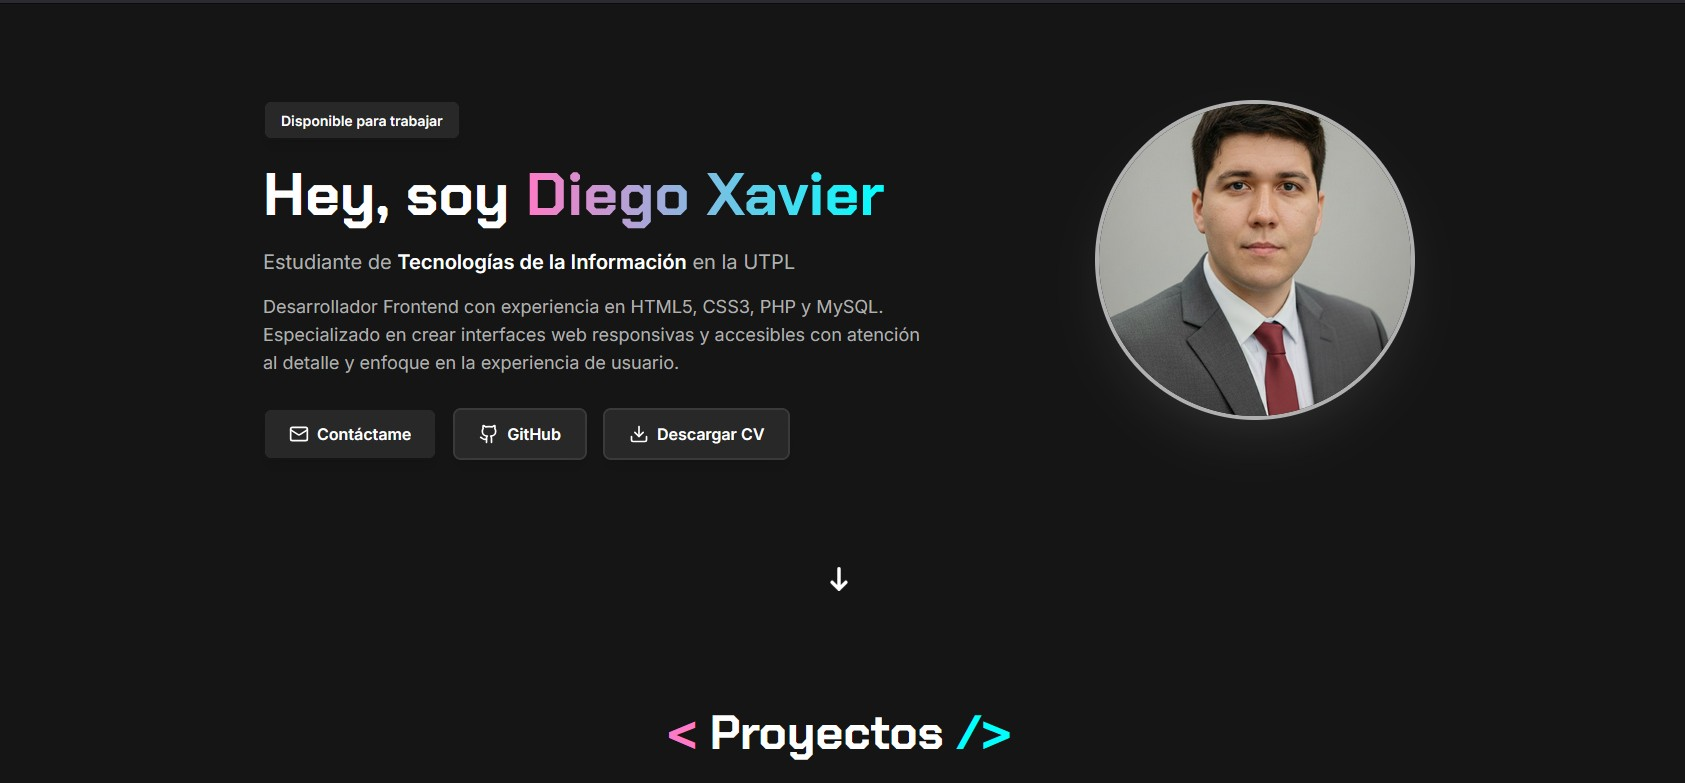
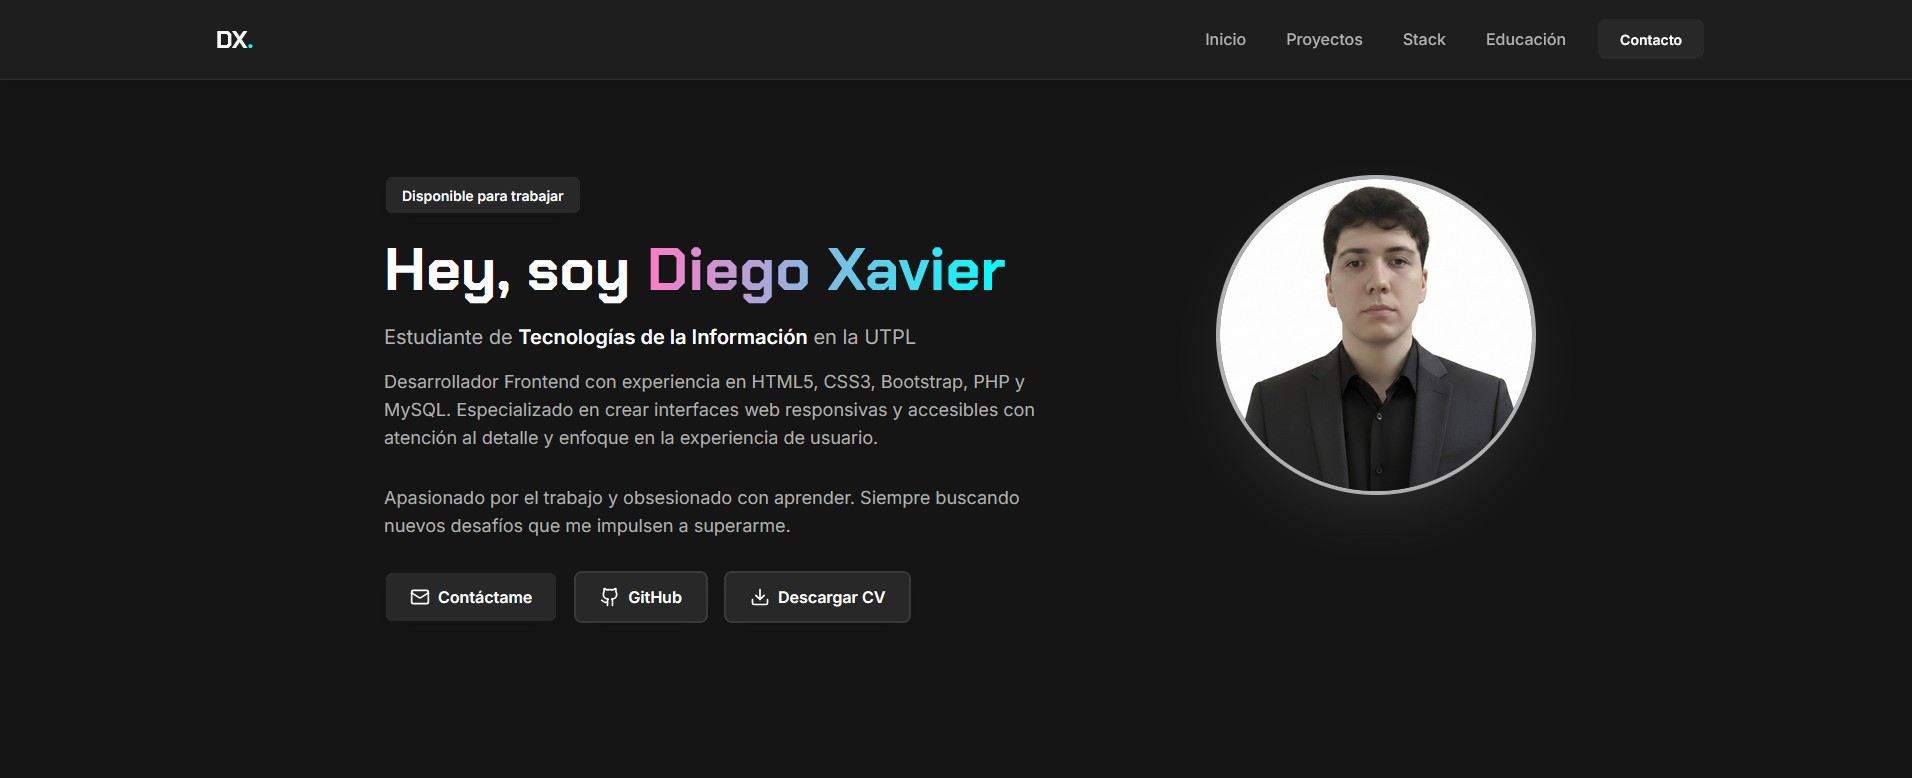
Ajustes finales de README, imágenes y plantilla

diff --git a/otro/index.html b/otro/index.html
@@ -167,13 +167,13 @@
             <div class="flex items-center gap-3 lg:hidden w-full">
                 <div class="w-16 h-16 sm:w-20 sm:h-20 rounded-full overflow-hidden border-2 border-[#B0B0B0] shadow-xl shadow-[#FFFFFF]/10 transition-transform duration-300 hover:scale-105 flex-shrink-0">
                     <img 
-                        src="/img/diego_xavier.jpg" 
+                        src="../assets/img/Foto_Diego.png" 
                         alt="Diego Xavier Barros Conde"
                         class="w-full h-full object-cover"
-                    />
+                    />wb
                 </div>
                 <a 
-                    href="https://www.linkedin.com/in/tu-perfil-linkedin" 
+                    href="https://www.linkedin.com/in/Diego-Barros-b18135362/" 
                     target="_blank" 
                     rel="noopener noreferrer"
                     class="group relative inline-flex items-center justify-center gap-2 px-4 py-2 rounded-lg font-semibold text-xs sm:text-sm text-white bg-[#282828] border-2 border-transparent overflow-hidden transition-all duration-300 hover:scale-105 shadow-lg hover:shadow-xl whitespace-nowrap"
@@ -191,7 +191,7 @@
             <div class="hidden lg:block flex-shrink-0">
                 <div class="w-80 h-80 rounded-full overflow-hidden border-4 border-[#B0B0B0] shadow-2xl shadow-[#FFFFFF]/10 transition-transform duration-300 hover:scale-105 object-center">
                     <img 
-                        src="/img/diego_xavier.jpg" 
+                        src="../assets/img/Foto_Diego.png" 
                         alt="Diego Xavier Barros Conde"
                         class="w-full h-full object-cover "
                     />
@@ -202,7 +202,7 @@
             <div class="flex-1 w-full lg:text-left">
                 <!-- Badge (Desktop only) -->
                 <a 
-                    href="https://www.linkedin.com/in/tu-perfil-linkedin" 
+                    href="https://www.linkedin.com/in/Diego-Barros-b18135362/" 
                     target="_blank" 
                     rel="noopener noreferrer"
                     class="hidden lg:inline-flex group relative items-center justify-center gap-2 px-4 py-2 rounded-lg font-semibold text-sm text-white bg-[#282828] border-2 border-transparent overflow-hidden transition-all duration-300 hover:scale-105 shadow-lg hover:shadow-xl mb-6"
@@ -234,10 +234,7 @@
                     Siempre buscando nuevos desafíos que me impulsen a superarme.
                     
                 </p>
-                <p class="text-base sm:text-lg text-[#B0B0B0] mb-6 sm:mb-8 max-w-2xl lg:mx-0">
-                   En mis ratos libres me gusta jugar videojuegos principalmente CS:GO. 
-                   Esta página está inspirada en el estilo del arma Printstream. 
-                </p>
+                
 
                 <!-- Action Buttons -->
                 <div class="flex flex-wrap gap-3 sm:gap-4 lg:justify-start">
@@ -276,7 +273,7 @@
                     </a>
 
                     <a
-                        href="CV - Diego Xavier Barros Conde_Machala.pdf"
+                        href="../assets/cv/CV-Diego_Xavier_Barros_Conde_Machala.pdf"
                         download="CV_Diego_Xavier_Barros_Conde.pdf"
                         class="group relative inline-flex items-center justify-center gap-2 px-5 sm:px-6 py-2.5 sm:py-3 rounded-lg font-semibold text-sm sm:text-base text-white bg-[#282828] border-2 border-[#3A3A3A] overflow-hidden transition-all duration-300 hover:scale-105 hover:border-transparent shadow-lg hover:shadow-xl"
                         style="background-clip: padding-box;"
@@ -297,12 +294,7 @@
         </div>
     </div>
 
-    <!-- Scroll Indicator -->
-    <div class="flex justify-center py-4">
-        <svg class="w-5 h-5 sm:w-6 sm:h-6 animate-bounce text-white" aria-hidden="true" xmlns="http://www.w3.org/2000/svg" fill="none" viewBox="0 0 10 14">
-            <path stroke="currentColor" stroke-linecap="round" stroke-linejoin="round" stroke-width="2" d="M5 1v12m0 0 4-4m-4 4L1 9"/>
-        </svg>
-    </div>
+   
 
     <!-- Projects Section -->
     <div class="container mx-auto px-4 sm:px-6 py-12 sm:py-16 lg:py-24" id="proyectos">
@@ -316,7 +308,7 @@
                 <article class="group bg-[#282828] rounded-xl overflow-hidden border-2 border-[#3A3A3A] hover:border-[#FF7AC6] transition-all duration-300 shadow-md hover:shadow-[#FF7AC6]/30 hover:scale-[1.02]">
                     <a href="#modal1-img1" class="relative block overflow-hidden aspect-video bg-[#1F1F1F] cursor-zoom-in">
                         <img 
-                            src="img/proyecto_blog1.jpg"
+                            src="../assets/img/proyecto_blog1.jpg"
                             alt="Blog MVC - Proyecto completo"
                             class="w-full h-full object-cover transition-transform duration-300 group-hover:scale-110"
                         />
@@ -357,7 +349,7 @@
                 <article class="group bg-[#282828] rounded-xl overflow-hidden border-2 border-[#3A3A3A] hover:border-[#00FFFF] transition-all duration-300 shadow-md hover:shadow-[#00FFFF]/30 hover:scale-[1.02]">
                     <a href="#modal2-img1" class="relative block overflow-hidden aspect-video bg-[#1F1F1F] cursor-zoom-in">
                         <img 
-                            src="img/Portafolio_web.jpg"
+                            src="../assets/img/Portafolio_web.jpg"
                             alt="Portafolio Web Personal"
                             class="w-full h-full object-cover transition-transform duration-300 group-hover:scale-110"
                         />
@@ -398,7 +390,7 @@
                 <article class="group bg-[#282828] rounded-xl overflow-hidden border-2 border-[#3A3A3A] hover:border-[#FF7AC6] transition-all duration-300 shadow-md hover:shadow-[#FF7AC6]/30 hover:scale-[1.02]">
                     <a href="#modal3-img1" class="relative block overflow-hidden aspect-video bg-[#1F1F1F] cursor-zoom-in">
                         <img 
-                            src="img/Imagen1.png"
+                            src="../assets/img/Imagen1.png"
                             alt="Editor Monaco - Implementación"
                             class="w-full h-full object-cover transition-transform duration-300 group-hover:scale-110"
                         />
@@ -616,7 +608,7 @@
             </a>
             
             <img 
-                src="img/proyecto_blog1.jpg" 
+                src="../assets/img/proyecto_blog1.jpg" 
                 alt="Blog MVC - Vista principal"
                 class="w-full h-full object-contain rounded-lg border-2 border-white/10 shadow-2xl"
             />
@@ -648,7 +640,7 @@
             </a>
             
             <img 
-                src="img/proyecto_blog2.jpg" 
+                src="../assets/img/proyecto_blog2.jpg" 
                 alt="Blog MVC - Panel admin"
                 class="w-full h-full object-contain rounded-lg border-2 border-white/10 shadow-2xl"
             />
@@ -680,7 +672,7 @@
             </a>
             
             <img 
-                src="img/proyecto_blog3.jpg" 
+                src="../assets/img/proyecto_blog3.jpg" 
                 alt="Blog MVC - Sistema de posts"
                 class="w-full h-full object-contain rounded-lg border-2 border-white/10 shadow-2xl"
             />
@@ -713,7 +705,7 @@
             </a>
             
             <img 
-                src="img/Portafolio_web.jpg" 
+                src="../assets/img/Portafolio_web.jpg" 
                 alt="Portafolio Web - Vista completa"
                 class="w-full h-full object-contain rounded-lg border-2 border-white/10 shadow-2xl"
             />
@@ -745,7 +737,7 @@
             </a>
             
             <img 
-                src="img/portafolio_web2.jpg" 
+                src="../assets/img/portafolio_web2.jpg" 
                 alt="Portafolio Web - Sección proyectos"
                 class="w-full h-full object-contain rounded-lg border-2 border-white/10 shadow-2xl"
             />
@@ -777,7 +769,7 @@
             </a>
             
             <img 
-                src="img/portafolio_web3.jpg" 
+                src="../assets/img/portafolio_web3.jpg" 
                 alt="Portafolio Web - Responsive"
                 class="w-full h-full object-contain rounded-lg border-2 border-white/10 shadow-2xl"
             />
@@ -804,7 +796,7 @@
             </a>
             
             <img 
-                src="img/Imagen1.png" 
+                src="../assets/img/Imagen1.png" 
                 alt="Editor Monaco - Vista completa"
                 class="w-full h-full object-contain rounded-lg border-2 border-white/10 shadow-2xl"
             />

diff --git a/vistas/plantilla.php b/vistas/plantilla.php
@@ -19,8 +19,11 @@
             }
         }
     </script>
-</head>
 
+ 
+
+
+</head>
 <body class="bg-[#151515]">
 
 <!-- Navigation Bar Desktop -->
@@ -165,13 +168,13 @@
             <div class="flex items-center gap-3 lg:hidden w-full">
                 <div class="w-16 h-16 sm:w-20 sm:h-20 rounded-full overflow-hidden border-2 border-[#B0B0B0] shadow-xl shadow-[#FFFFFF]/10 transition-transform duration-300 hover:scale-105 flex-shrink-0">
                     <img 
-                        src="assets/img/diego_xavier.jpg" 
+                        src="assets/img/Foto_Diego.png" 
                         alt="Diego Xavier Barros Conde"
                         class="w-full h-full object-cover"
-                    />
+                    />wb
                 </div>
                 <a 
-                    href="https://www.linkedin.com/in/tu-perfil-linkedin" 
+                    href="https://www.linkedin.com/in/Diego-Barros-b18135362/" 
                     target="_blank" 
                     rel="noopener noreferrer"
                     class="group relative inline-flex items-center justify-center gap-2 px-4 py-2 rounded-lg font-semibold text-xs sm:text-sm text-white bg-[#282828] border-2 border-transparent overflow-hidden transition-all duration-300 hover:scale-105 shadow-lg hover:shadow-xl whitespace-nowrap"
@@ -189,7 +192,7 @@
             <div class="hidden lg:block flex-shrink-0">
                 <div class="w-80 h-80 rounded-full overflow-hidden border-4 border-[#B0B0B0] shadow-2xl shadow-[#FFFFFF]/10 transition-transform duration-300 hover:scale-105 object-center">
                     <img 
-                        src="assets/img/diego_xavier.jpg" 
+                        src="assets/img/Foto_Diego.png" 
                         alt="Diego Xavier Barros Conde"
                         class="w-full h-full object-cover "
                     />
@@ -200,7 +203,7 @@
             <div class="flex-1 w-full lg:text-left">
                 <!-- Badge (Desktop only) -->
                 <a 
-                    href="https://www.linkedin.com/in/tu-perfil-linkedin" 
+                    href="https://www.linkedin.com/in/Diego-Barros-b18135362/" 
                     target="_blank" 
                     rel="noopener noreferrer"
                     class="hidden lg:inline-flex group relative items-center justify-center gap-2 px-4 py-2 rounded-lg font-semibold text-sm text-white bg-[#282828] border-2 border-transparent overflow-hidden transition-all duration-300 hover:scale-105 shadow-lg hover:shadow-xl mb-6"
@@ -232,10 +235,7 @@
                     Siempre buscando nuevos desafíos que me impulsen a superarme.
                     
                 </p>
-                <p class="text-base sm:text-lg text-[#B0B0B0] mb-6 sm:mb-8 max-w-2xl lg:mx-0">
-                   En mis ratos libres me gusta jugar videojuegos principalmente CS:GO. 
-                   Esta página está inspirada en el estilo del arma Printstream. 
-                </p>
+                
 
                 <!-- Action Buttons -->
                 <div class="flex flex-wrap gap-3 sm:gap-4 lg:justify-start">
@@ -295,12 +295,7 @@
         </div>
     </div>
 
-    <!-- Scroll Indicator -->
-    <div class="flex justify-center py-4">
-        <svg class="w-5 h-5 sm:w-6 sm:h-6 animate-bounce text-white" aria-hidden="true" xmlns="http://www.w3.org/2000/svg" fill="none" viewBox="0 0 10 14">
-            <path stroke="currentColor" stroke-linecap="round" stroke-linejoin="round" stroke-width="2" d="M5 1v12m0 0 4-4m-4 4L1 9"/>
-        </svg>
-    </div>
+   
 
     <!-- Projects Section -->
     <div class="container mx-auto px-4 sm:px-6 py-12 sm:py-16 lg:py-24" id="proyectos">

diff --git a/README.md b/README.md
@@ -114,3 +114,11 @@ Subir todos los archivos del proyecto
 Acceder al proyecto mediante el dominio creado
 
 https://diego-xavier.infinityfree.me/index.php
+
+# ADICIONAL
+
+El archivo tailwind.config.js es para que funciona la extencion Tailwind CSS IntelliSense es una extencion de autocompletado.
+
+En la carpeta assets intente implementar un sprite.svg para guardar los iconos, sin envargo no puede implementar por que me presentavan fallas en
+
+navegadres como Firefox.
